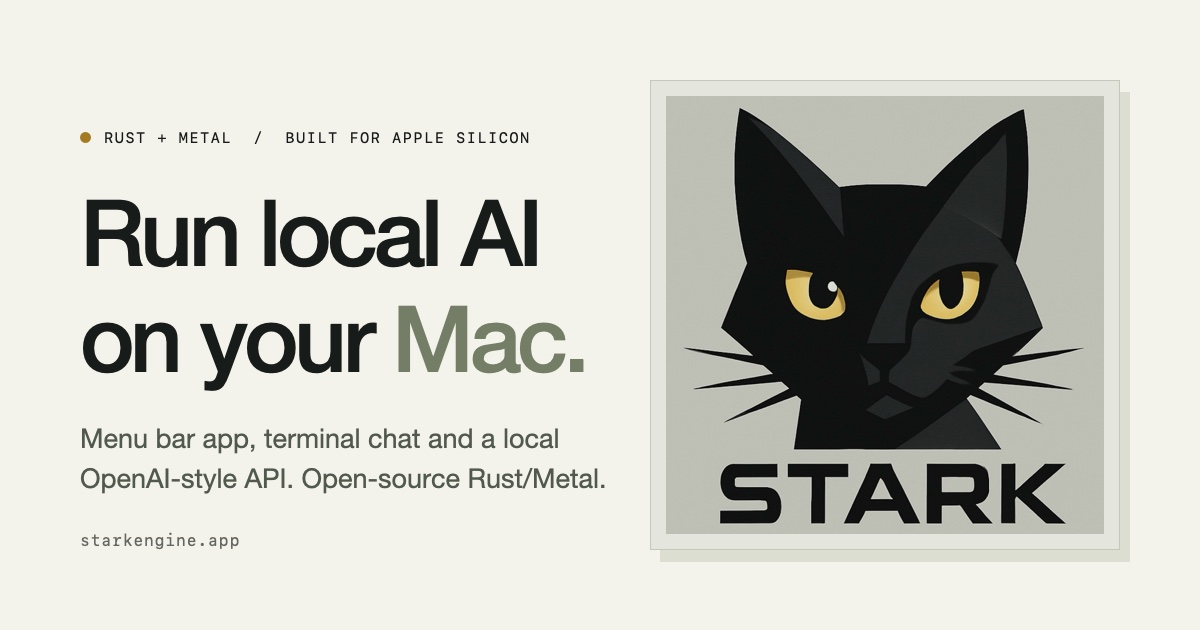
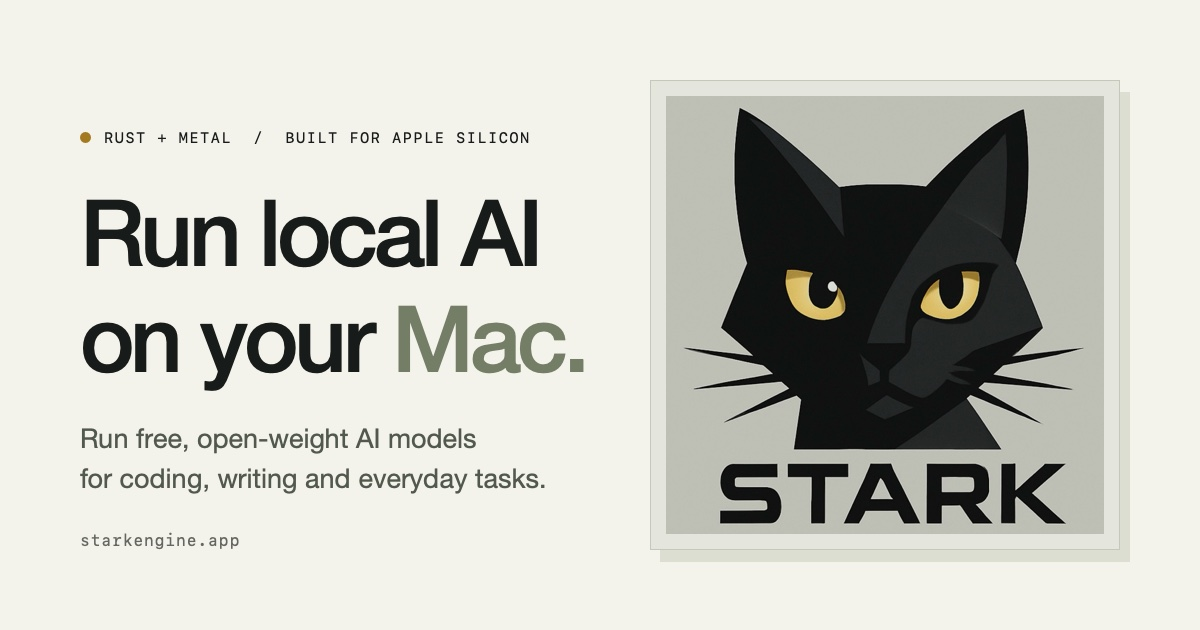
fix(site): refresh social preview description
AI-Assisted: codex

Changed region(s): [[0.0617, 0.6635, 0.4933, 0.7841]]

diff --git a/website/public/index.html b/website/public/index.html
@@ -5,17 +5,17 @@
   <meta name="viewport" content="width=device-width, initial-scale=1">
   <meta name="color-scheme" content="light">
   <meta name="theme-color" content="#171b19">
-  <meta name="description" content="Run AI locally on your Mac. Connect apps for files and code, or make decisions with JevK5 and see its confidence. Guided setup helps you choose a model for your Mac.">
+  <meta name="description" content="Run free, open-weight AI models for coding, writing and everyday tasks.">
   <meta property="og:title" content="Stark — run local AI on your Mac">
-  <meta property="og:description" content="Local chat, connected apps and decision models on Apple silicon. See the Mac app, check model requirements and explore the measured performance.">
+  <meta property="og:description" content="Run free, open-weight AI models for coding, writing and everyday tasks.">
   <meta property="og:type" content="website">
   <meta property="og:url" content="https://starkengine.app/">
-  <meta property="og:image" content="https://starkengine.app/assets/stark-social-card.jpg">
+  <meta property="og:image" content="https://starkengine.app/assets/stark-social-card.jpg?v=2">
   <meta property="og:image:width" content="1200">
   <meta property="og:image:height" content="630">
   <meta property="og:image:alt" content="Stark's black cat logo beside the words Run local AI on your Mac.">
   <meta name="twitter:card" content="summary_large_image">
-  <meta name="twitter:image" content="https://starkengine.app/assets/stark-social-card.jpg">
+  <meta name="twitter:image" content="https://starkengine.app/assets/stark-social-card.jpg?v=2">
   <link rel="canonical" href="https://starkengine.app/">
   <link rel="icon" href="assets/stark-engine.jpg" type="image/jpeg">
   <link rel="stylesheet" href="styles.css">

diff --git a/website/public/technical.html b/website/public/technical.html
@@ -10,12 +10,12 @@
   <meta property="og:description" content="Explore Stark’s local HTTP API, native workers, model requirements and source-bound Apple silicon benchmarks.">
   <meta property="og:type" content="website">
   <meta property="og:url" content="https://starkengine.app/technical.html">
-  <meta property="og:image" content="https://starkengine.app/assets/stark-social-card.jpg">
+  <meta property="og:image" content="https://starkengine.app/assets/stark-social-card.jpg?v=2">
   <meta property="og:image:width" content="1200">
   <meta property="og:image:height" content="630">
   <meta property="og:image:alt" content="Stark's black cat logo beside the words Run local AI on your Mac.">
   <meta name="twitter:card" content="summary_large_image">
-  <meta name="twitter:image" content="https://starkengine.app/assets/stark-social-card.jpg">
+  <meta name="twitter:image" content="https://starkengine.app/assets/stark-social-card.jpg?v=2">
   <link rel="canonical" href="https://starkengine.app/technical.html">
   <link rel="icon" href="assets/stark-engine.jpg" type="image/jpeg">
   <link rel="stylesheet" href="styles.css">

diff --git a/website/scripts/render_social_card.swift b/website/scripts/render_social_card.swift
@@ -131,8 +131,8 @@ draw(line2, x: columnX, top: headlineTop + lineHeight)
 // Description and address.
 let descriptionFont = font("HelveticaNeue", 27, fallbackWeight: .regular)
 let descriptionTop = headlineTop + 2 * lineHeight + 34
-draw(attributed("Menu bar app, terminal chat and a local", font: descriptionFont, color: body, tracking: 0), x: columnX, top: descriptionTop)
-draw(attributed("OpenAI-style API. Open-source Rust/Metal.", font: descriptionFont, color: body, tracking: 0), x: columnX, top: descriptionTop + 40)
+draw(attributed("Run free, open-weight AI models", font: descriptionFont, color: body, tracking: 0), x: columnX, top: descriptionTop)
+draw(attributed("for coding, writing and everyday tasks.", font: descriptionFont, color: body, tracking: 0), x: columnX, top: descriptionTop + 40)
 
 let addressFont = NSFont.monospacedSystemFont(ofSize: 16, weight: .regular)
 let address = attributed("starkengine.app", font: addressFont, color: muted, tracking: 0.8)
